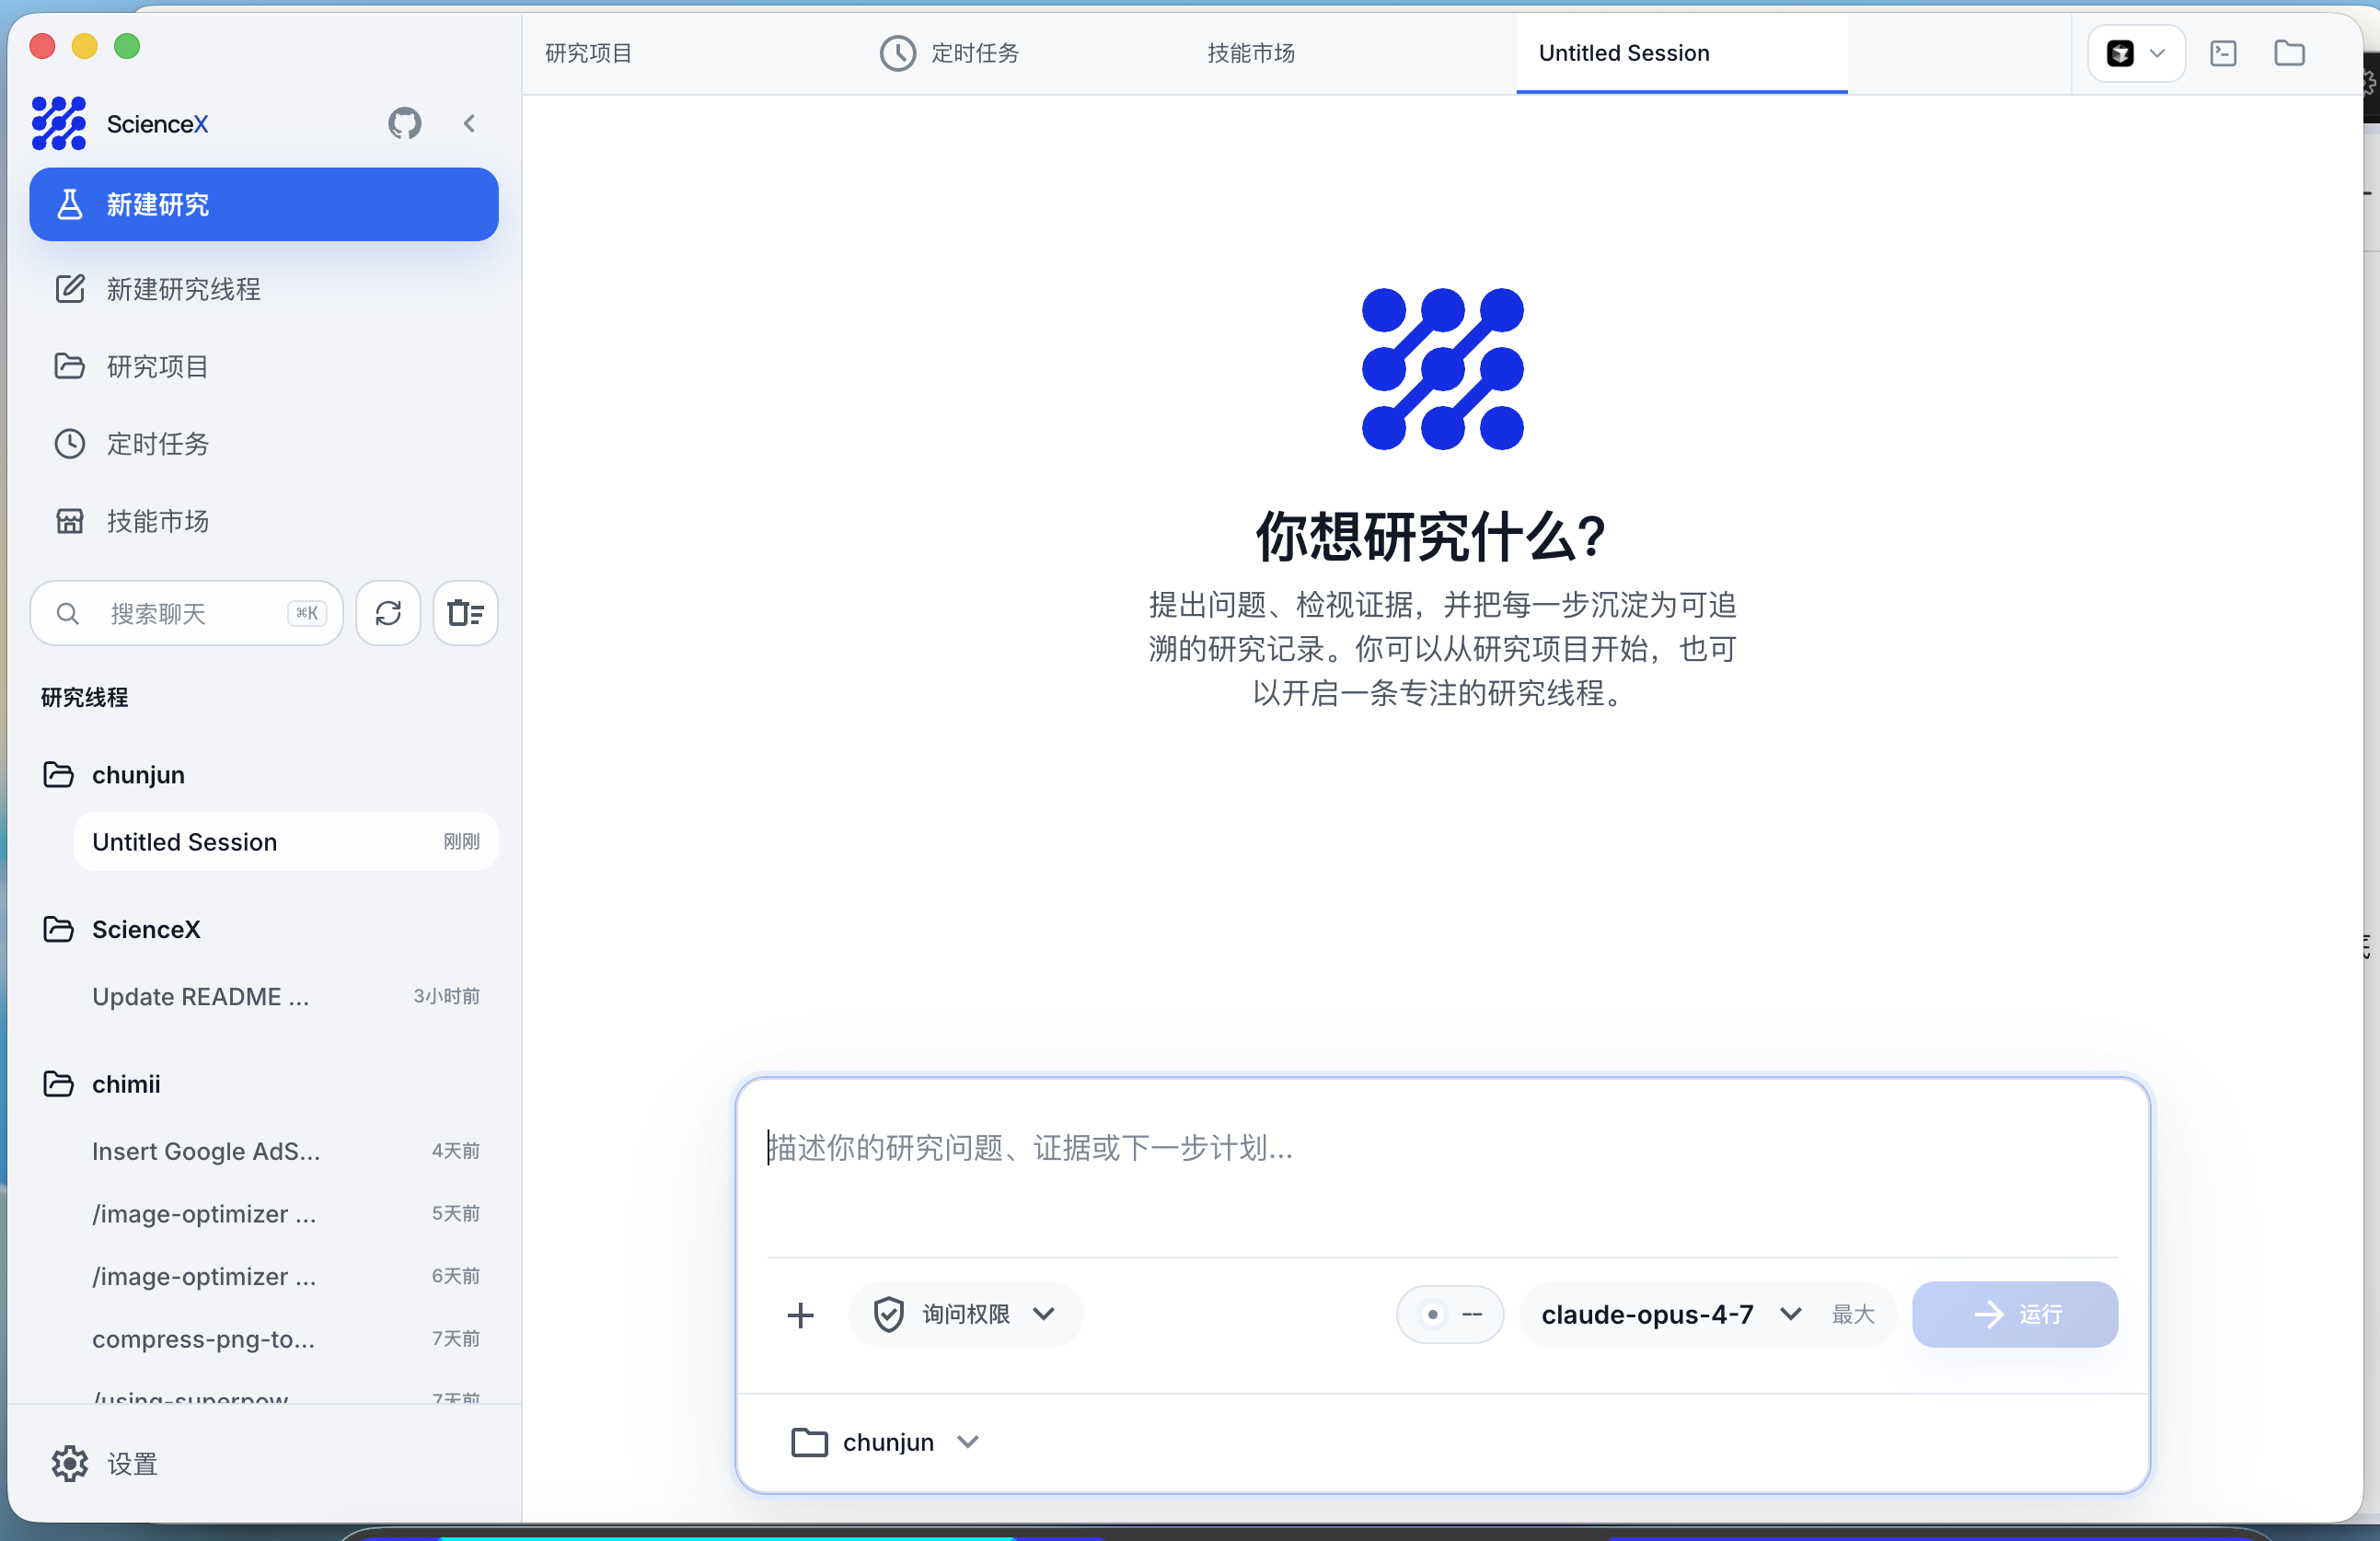
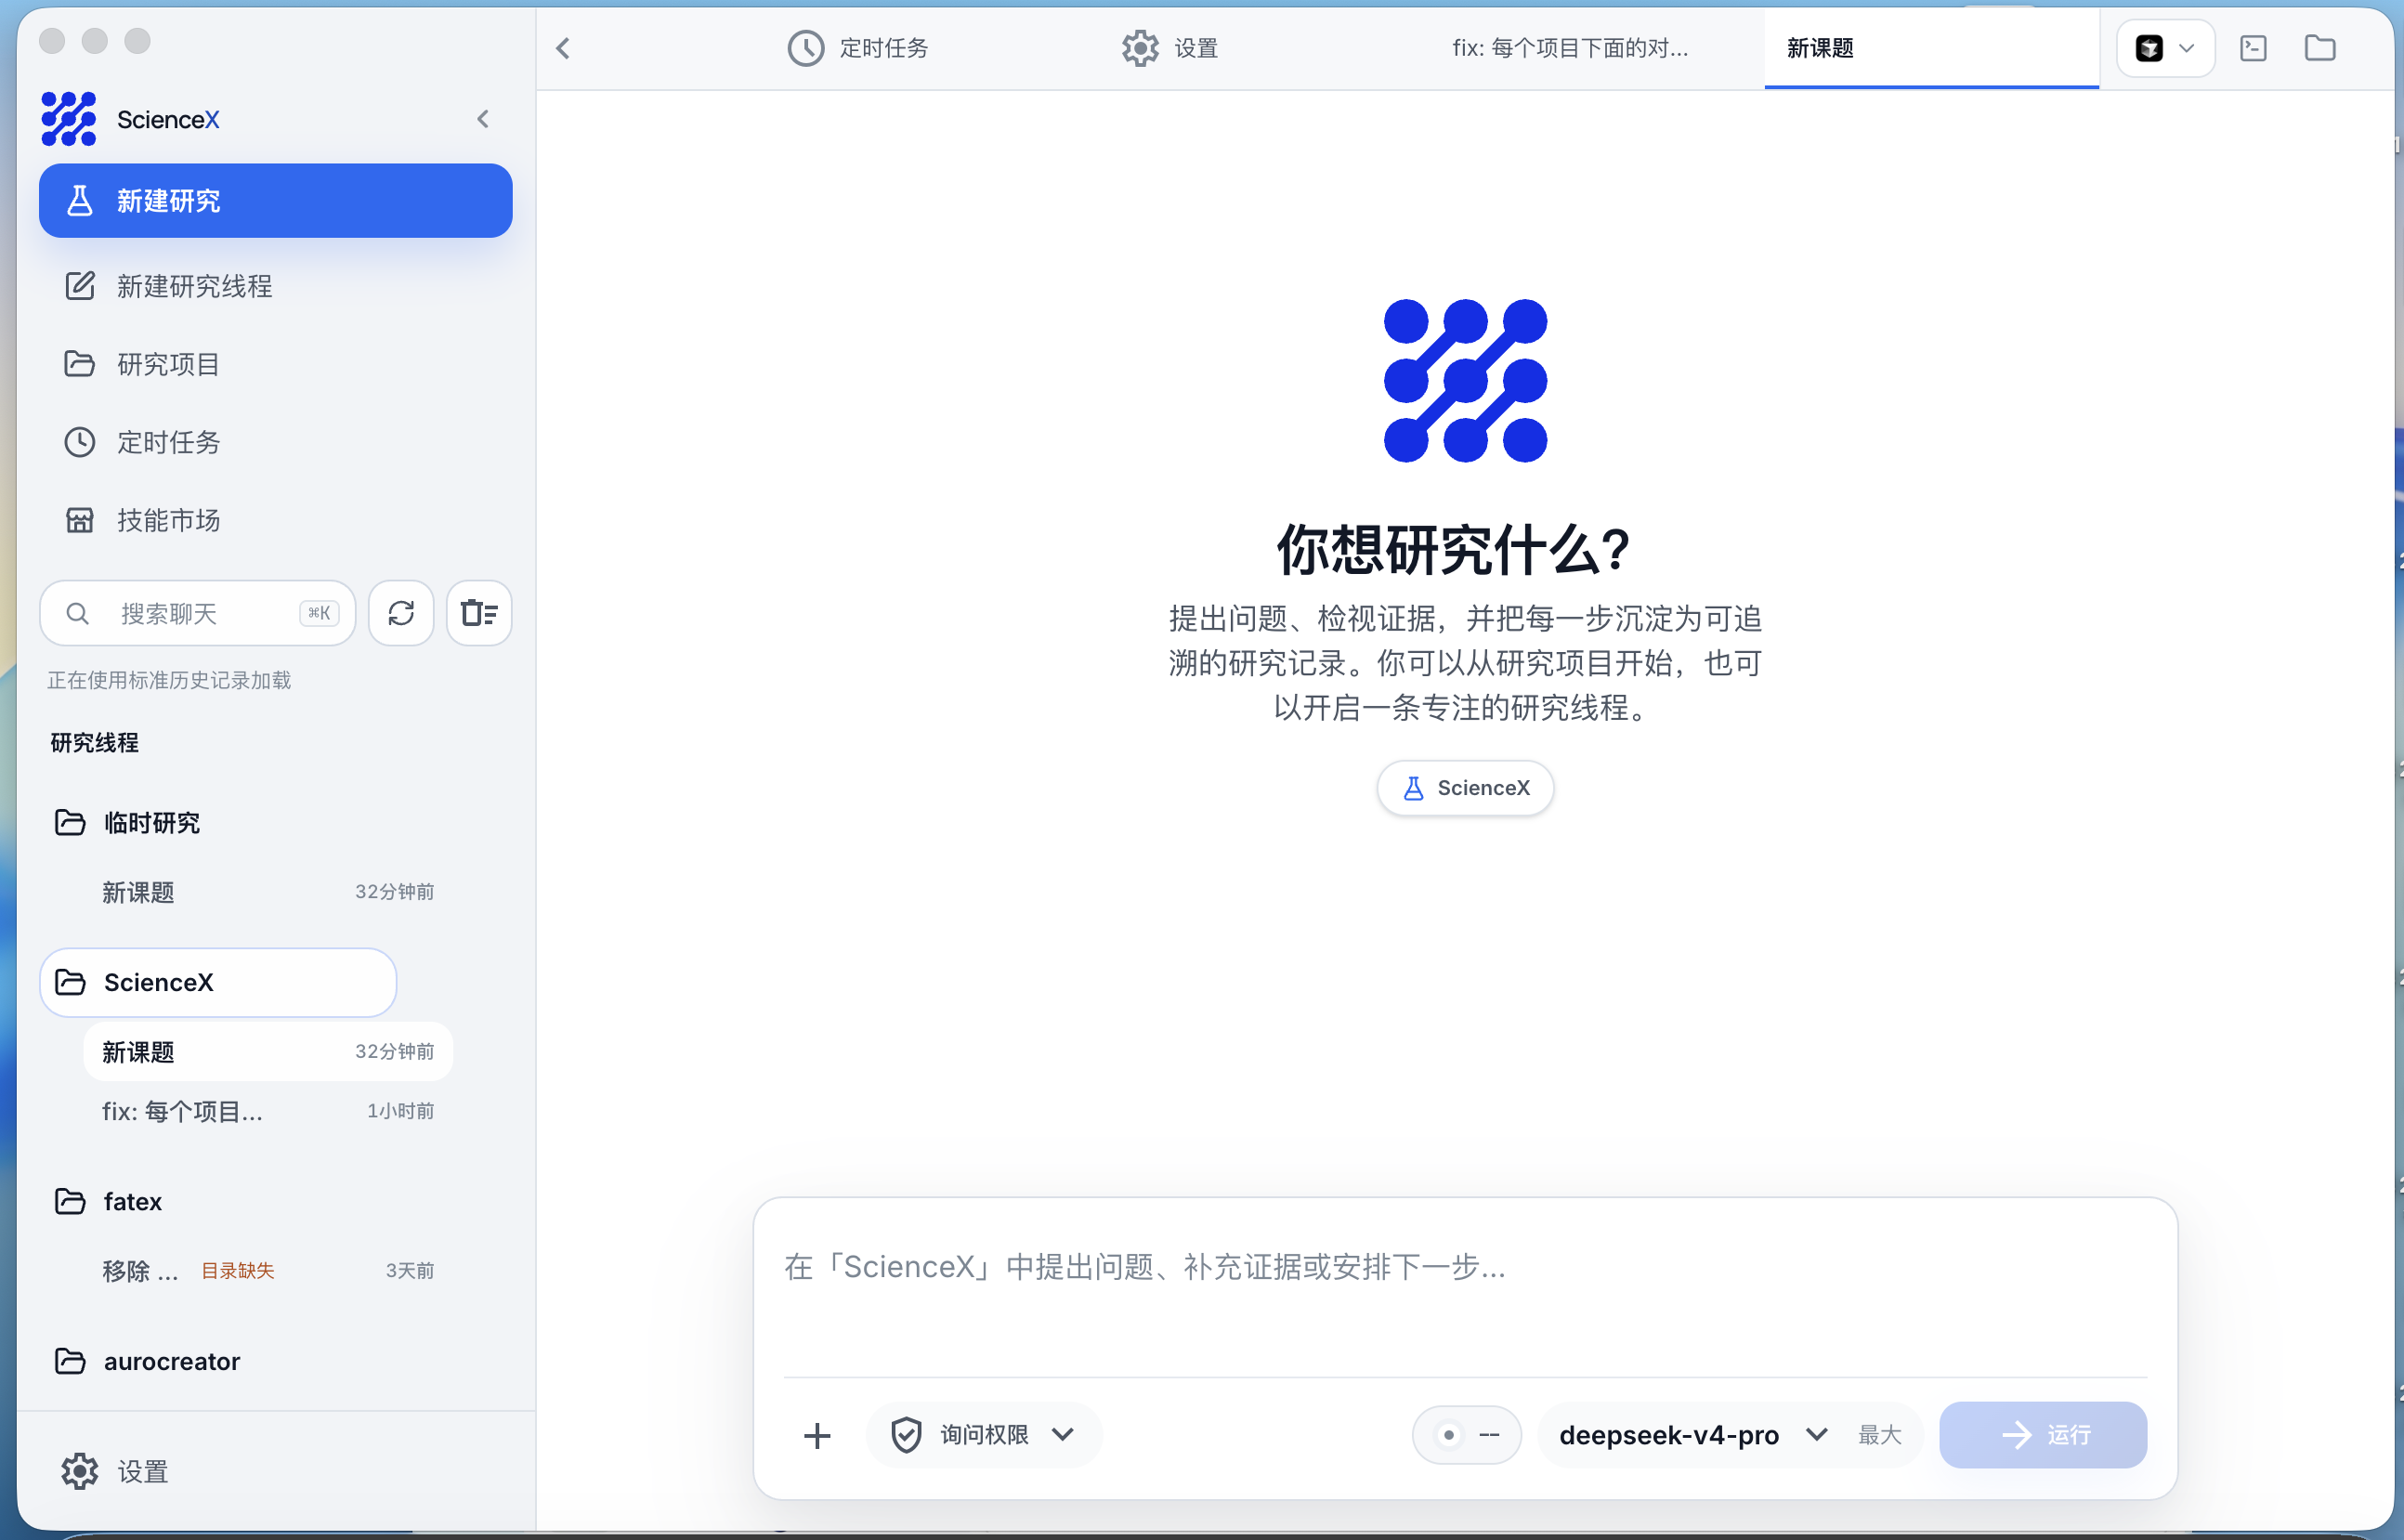
ci: add CI quality gate and three-platform release workflow

diff --git a/desktop/src/pages/Settings.tsx b/desktop/src/pages/Settings.tsx
@@ -4397,8 +4397,7 @@ const GITHUB_REPO = 'https://github.com/insight68/ScienceX'
 const GITHUB_ISSUES = `${GITHUB_REPO}/issues`
 const GITHUB_RELEASES = `${GITHUB_REPO}/releases`
 const AUTHOR_GITHUB = 'https://github.com/insight68'
-const SOCIAL_LINKS = [
-] as const
+const SOCIAL_LINKS: readonly { name: string; url: string; icon: string; label: string }[] = []
 
 function isValidHttpProxyUrl(value: string) {
   try {

diff --git a/release-notes/v0.2.0.md b/release-notes/v0.2.0.md
@@ -1,0 +1,132 @@
+# ScienceX v0.2.0 — 自动化三平台发布 / Automated Three-Platform Release
+
+---
+
+## v0.2.0 的重点 / What's in v0.2.0
+
+**中文：**
+
+v0.2.0 是一个面向分发的基础设施版本。我们没有加入新的科研功能，而是把发布和质量保障打通：
+
+- **自动化三平台发布**：推送 `v*` 标签后，GitHub Actions 在 macOS / Windows / Linux 三个平台上并行构建安装包并自动上传到 GitHub Releases。用户首次可以直接从 Releases 页面下载。
+- **CI 质量门禁**：每个 PR 和 push 到 main 都会自动运行服务端测试、桌面端 lint+测试+构建、适配器测试，保持主分支稳定。
+- **未签名构建的最佳实践**：在没有 Apple 开发者证书的前提下，macOS 构建关闭签名和公证，用户首次安装执行一次 `xattr -cr` 即可；Windows 出现 SmartScreen 提示时点击「仍要运行」。workflow 预留了签名/公证的环境变量入口，未来获得证书后只需配置 Secrets 即可切换到签名发布。
+
+本次版本号从 0.1.0 直接跳到 0.2.0，期间 0.1.x ~ 0.4.x 为内部迭代版本，未对外发布。
+
+---
+
+**English:**
+
+v0.2.0 is an infrastructure-focused release for distribution. We didn't add new research features — we wired up release and quality assurance:
+
+- **Automated three-platform release**: pushing a `v*` tag triggers GitHub Actions to build installers in parallel on macOS / Windows / Linux and upload them to GitHub Releases. Users can download directly from the Releases page.
+- **CI quality gate**: every PR and push to main automatically runs server tests, desktop lint+test+build, and adapter tests to keep the main branch stable.
+- **Best practice for unsigned builds**: without an Apple Developer certificate, macOS builds disable signing and notarization — users run `xattr -cr` once on first install; Windows shows SmartScreen, click "More info" → "Run anyway". The workflow reserves environment variable entry points for signing/notarization — once a certificate is obtained, switching to signed releases is just a matter of configuring Secrets.
+
+The version jumps from 0.1.0 to 0.2.0; the intermediate 0.1.x ~ 0.4.x were internal iterations, not publicly released.
+
+---
+
+## 下载说明 / Downloads
+
+| 平台 Platform         | 格式 Format   | 架构 Arch |
+| --------------------- | ------------- | --------- |
+| macOS (Apple Silicon) | `.dmg`        | arm64     |
+| Windows               | `.exe`        | x64       |
+| Linux                 | `.AppImage` / `.deb` | x64 |
+
+> macOS Intel 用户暂时请从源码构建，或使用 Rosetta 运行 arm64 包。后续版本会补 x64 包。
+>
+> *macOS Intel users: please build from source for now, or run the arm64 build via Rosetta. x64 builds will be added in a later release.*
+
+---
+
+## 首次安装说明 / First-Time Installation
+
+### macOS
+
+安装包未签名，系统会拦截。提示「已损坏」或「无法验证开发者」时，终端执行：
+
+*The installer is unsigned; macOS will block it. When you see "damaged" or "cannot verify developer," run in terminal:*
+
+```bash
+xattr -cr /Applications/ScienceX.app
+```
+
+### Windows
+
+未签名安装包会出现 SmartScreen 提示，点击「更多信息」→「仍要运行」即可。
+
+*Unsigned installers trigger SmartScreen. Click "More info" → "Run anyway."*
+
+### Linux
+
+```bash
+sudo dpkg -i sciencex_*.deb
+# 或运行 AppImage
+chmod +x ScienceX-*.AppImage
+./ScienceX-*.AppImage
+```
+
+---
+
+## 从源码运行 / Run from Source
+
+```bash
+git clone https://github.com/insight68/sciencex.git
+cd sciencex
+bun install
+
+cd desktop
+bun install
+bun run build:sidecars
+bun run electron:dev
+```
+
+---
+
+## 当前能力 / Current Capabilities
+
+### 科研工作台 / Science Workbench
+
+| 能力 Capability                   | 描述 Description                                                                                                                                      |
+| --------------------------------- | ----------------------------------------------------------------------------------------------------------------------------------------------------- |
+| 研究项目管理 Research Projects    | 在本地目录创建 `.sciencex` manifest 和 SQLite 研究数据库 / Creates `.sciencex` manifest and SQLite database in a local directory                      |
+| 实验表格登记 Table Registry       | 支持 UTF-8 CSV/TSV，记录规范化路径、大小、修改时间和 SHA-256 / Registers CSV/TSV with canonical path, size, mtime, and SHA-256                        |
+| 本地数据画像 Data Profiling       | 推断列类型，统计缺失值、唯一值、完整行和数值列（最多 100 样本行）/ Infers column types, measures missing values, uniqueness, and numeric stats       |
+| 可追溯 Run Traceable Runs         | 显式 `queued / running / completed / failed / interrupted` 状态机，记录参数和运行环境 / Explicit state machine with parameter and environment snapshots |
+| Provenance 追踪 Provenance        | Append-only `events.jsonl`、Run manifest、输入哈希和配方哈希 / Append-only event log, run manifest, input hashes, and recipe hashes                  |
+| 研究产物 Artifacts                | 生成并登记 `quality-report.md` 和 `profile.json`，含大小和内容哈希 / Registered artifacts with size and content hashes                               |
+| 重放与过期检测 Replay & Staleness | 历史 Run 可重放为子 Run；数据更新后旧 Run 标记为 `stale` / History replay as child runs; old runs marked `stale` on new data versions                |
+
+### Agent 基础设施 / Agent Infrastructure
+
+- 多会话工作台、代码编辑与 Diff、权限审批流、多模型提供商、Skills / MCP / SubAgent、Computer Use、IM 接入、定时任务、H5 远程访问
+
+---
+
+## 已知限制 / Known Limitations
+
+- `table-quality-v1` 配方最多分析 100 个安全解析的样本行，**不构成完整数据集统计、显著性检验或科学结论** / The `table-quality-v1` recipe profiles at most 100 safely parsed sample rows — it is **not full-dataset statistics, significance testing, or a scientific conclusion**.
+- 通用计算环境（Python / Jupyter / R）尚在开发中 / General compute environments (Python / Jupyter / R) are still under development.
+- 科研连接器（文献、科学数据库、HPC）尚未就绪 / Scientific connectors (literature, databases, HPC) are not yet available.
+- macOS Intel (x64) 包暂未提供 / macOS Intel (x64) build is not yet provided.
+
+---
+
+## 下一步 / What's Next
+
+- 受控 Python / Jupyter / R 运行时与环境锁定
+- 标准 `.ipynb` 生成、Restart & Run All
+- Agent ↔ Science 工具桥：让 AI 对话能直接驱动科研工作流
+- 图表、统计表与生成代码的双向绑定
+- Reviewer Agent
+
+欢迎通过 [GitHub Issues](https://github.com/insight68/sciencex/issues) 讨论优先级和提交反馈。
+
+---
+
+<p align="center">
+  <sub>© 2026 <a href="https://iteamify.com">iteamify.com</a>. ScienceX is an independent open-source project, not affiliated with Anthropic.</sub>
+</p>

diff --git a/README.en.md b/README.en.md
@@ -1,6 +1,6 @@
 # ScienceX
 <p align="center">
-  <img src="docs/images/desktop_ui/Sciencex202607193.png" alt="ScienceX" width="480">
+  <img src="docs/images/desktop_ui/Sciencex202607192.png" alt="ScienceX" width="800">
 </p>
 
 
@@ -51,6 +51,9 @@ ScienceX is not a single-purpose chat box. It combines a research layer for proj
 | 🚧 In development | Rich scientific artifacts | Code-linked figures, manuscripts, domain renderers, and reviewer agents                                     |
 
 The current `table-quality-v1` recipe profiles at most 100 safely parsed sample rows. It checks structure and data quality; it is **not full-dataset statistics, significance testing, or a scientific conclusion**.
+<p align="center">
+  <img src="docs/images/desktop_ui/Sciencex202607193.png" alt="ScienceX" width="800">
+</p>
 
 ## Core workflow
 